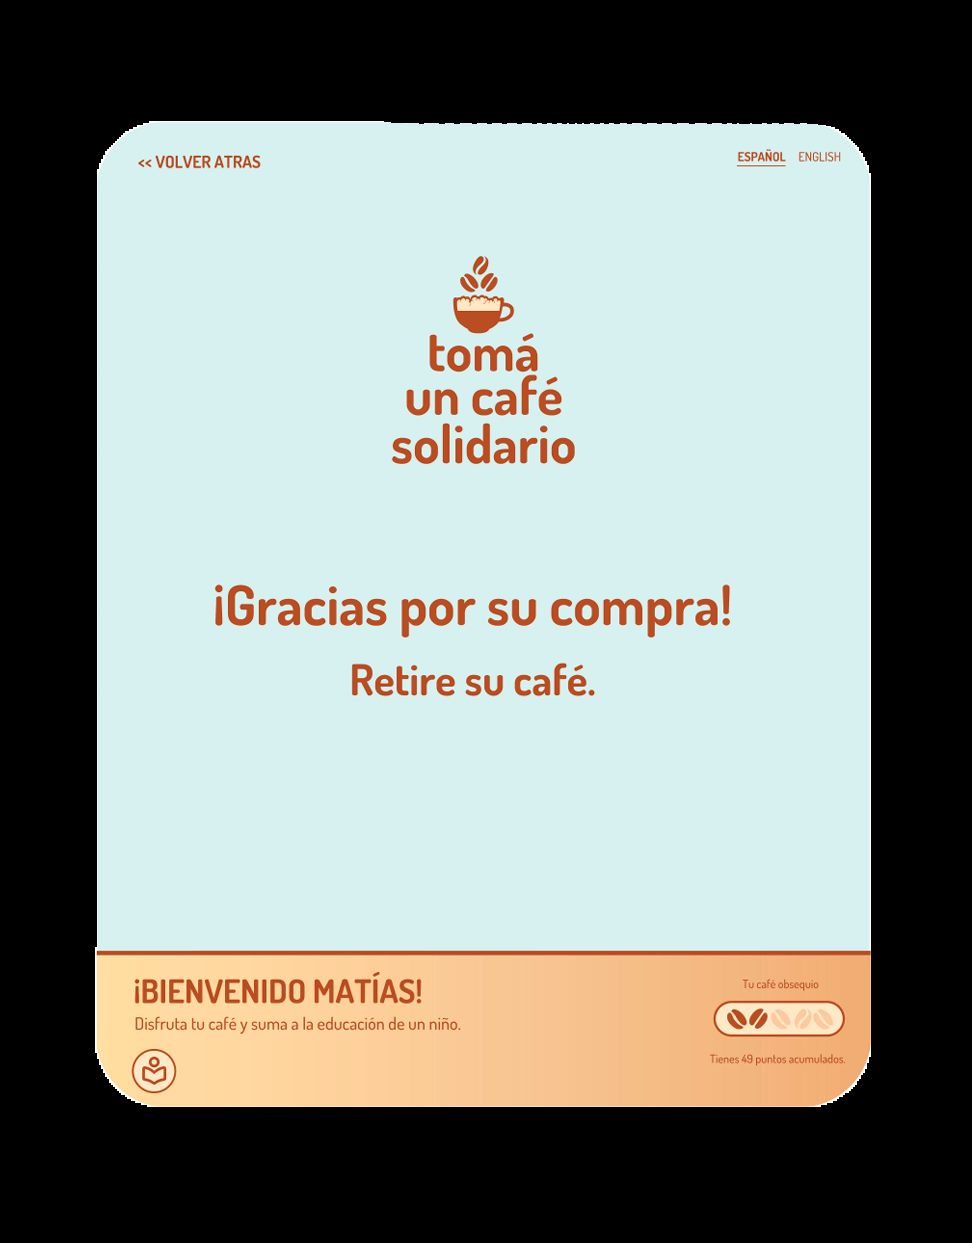
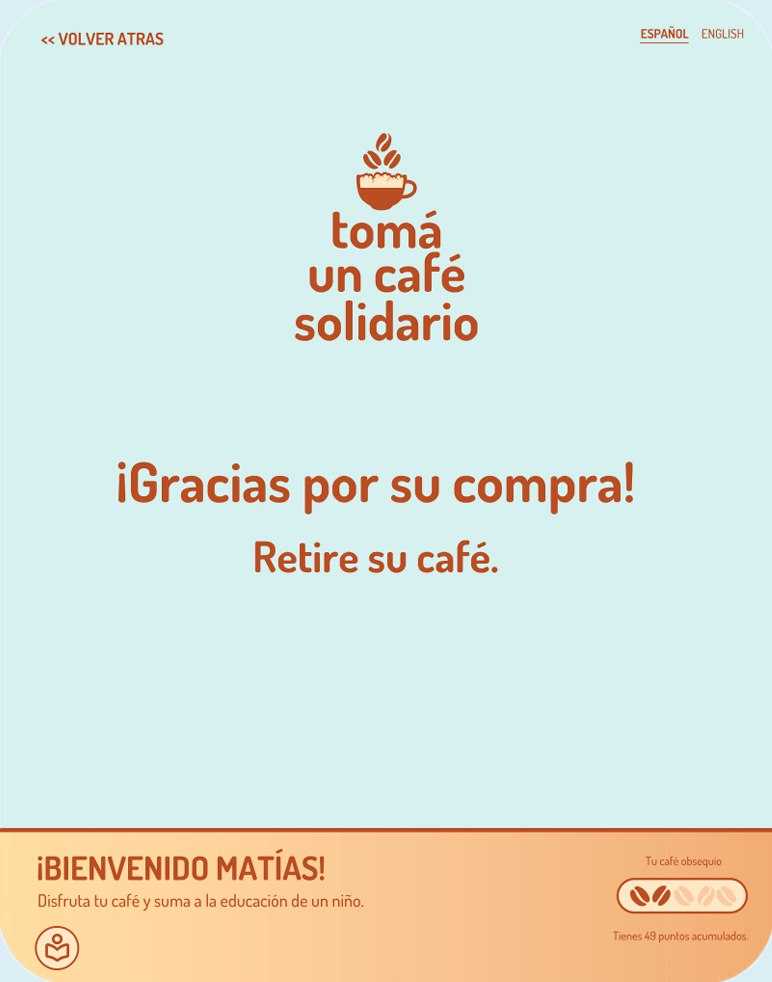
Add hero photo-to-illustration morph and clean Totem frames.
Interactive drag/tap reveal on the hero portrait, swap in the latest illustration assets, and crop black borders from Totem Cafe screens.

diff --git a/css/styles.css b/css/styles.css
@@ -312,6 +312,11 @@ section.hero {
   justify-self: end;
   box-shadow: 0 16px 40px rgba(0, 0, 0, 0.12);
   background: #EAE4D6;
+  position: relative;
+  touch-action: none;
+  cursor: ew-resize;
+  user-select: none;
+  -webkit-user-select: none;
 }
 
 .hero-image img {
@@ -320,6 +325,134 @@ section.hero {
   object-fit: cover;
   object-position: center top;
   display: block;
+  pointer-events: none;
+}
+
+.hero-morph-draw {
+  position: absolute;
+  inset: 0;
+  width: 100%;
+  height: 100%;
+  object-fit: cover;
+  object-position: center top;
+}
+
+.hero-morph-photo {
+  position: absolute;
+  inset: 0;
+  width: 100%;
+  height: 100%;
+  overflow: hidden;
+  clip-path: inset(0 0 0 0);
+  will-change: clip-path;
+}
+
+.hero-morph-photo img {
+  position: absolute;
+  inset: 0;
+  width: 100%;
+  height: 100%;
+  max-width: none;
+  object-fit: cover;
+  object-position: center top;
+}
+
+.hero-morph-handle {
+  position: absolute;
+  top: 0;
+  bottom: 0;
+  left: 100%;
+  width: 0;
+  z-index: 3;
+  pointer-events: none;
+}
+
+.hero-morph-handle-line {
+  position: absolute;
+  top: 0;
+  bottom: 0;
+  left: 0;
+  width: 2px;
+  transform: translateX(-50%);
+  background: rgba(255, 250, 240, 0.92);
+  box-shadow: 0 0 0 1px rgba(28, 28, 28, 0.12);
+}
+
+.hero-morph-handle-knob {
+  position: absolute;
+  top: 50%;
+  left: 0;
+  width: 42px;
+  height: 42px;
+  transform: translate(-50%, -50%);
+  border-radius: 50%;
+  background: rgba(255, 250, 240, 0.95);
+  border: 1px solid rgba(28, 28, 28, 0.12);
+  box-shadow: 0 8px 20px rgba(0, 0, 0, 0.18);
+}
+
+.hero-morph-handle-knob::before,
+.hero-morph-handle-knob::after {
+  content: '';
+  position: absolute;
+  top: 50%;
+  width: 0;
+  height: 0;
+  border-style: solid;
+  transform: translateY(-50%);
+}
+
+.hero-morph-handle-knob::before {
+  left: 10px;
+  border-width: 5px 6px 5px 0;
+  border-color: transparent #1C1C1C transparent transparent;
+}
+
+.hero-morph-handle-knob::after {
+  right: 10px;
+  border-width: 5px 0 5px 6px;
+  border-color: transparent transparent transparent #1C1C1C;
+}
+
+.hero-morph-hint {
+  position: absolute;
+  left: 50%;
+  bottom: 16px;
+  transform: translateX(-50%);
+  z-index: 4;
+  padding: 8px 12px;
+  border-radius: 999px;
+  background: rgba(28, 28, 28, 0.62);
+  color: #FFFAF0;
+  font-size: 12px;
+  font-weight: 700;
+  letter-spacing: 0.04em;
+  text-transform: uppercase;
+  white-space: nowrap;
+  pointer-events: none;
+  transition: opacity 0.35s ease, transform 0.35s ease;
+}
+
+.hero-morph.is-drawn .hero-morph-hint,
+.hero-morph.is-dragging .hero-morph-hint {
+  opacity: 0;
+  transform: translateX(-50%) translateY(6px);
+}
+
+.hero-morph.is-animating .hero-morph-photo {
+  transition: clip-path 0.55s cubic-bezier(0.22, 1, 0.36, 1);
+}
+
+.hero-morph.is-animating .hero-morph-handle {
+  transition: left 0.55s cubic-bezier(0.22, 1, 0.36, 1);
+}
+
+@media (prefers-reduced-motion: reduce) {
+  .hero-morph.is-animating .hero-morph-photo,
+  .hero-morph.is-animating .hero-morph-handle,
+  .hero-morph-hint {
+    transition: none;
+  }
 }
 
 .hero .cta {
@@ -1580,15 +1713,20 @@ body[data-proyecto-id="3"] .main-image {
 }
 
 body[data-proyecto-id="3"] .main-image {
-  aspect-ratio: 972 / 1243;
+  aspect-ratio: 882 / 1124;
   background: #dceef5;
 }
 
-body[data-proyecto-id="2"] .main-image img,
-body[data-proyecto-id="3"] .main-image img {
+body[data-proyecto-id="2"] .main-image img {
   object-fit: contain !important;
   object-position: center center;
   background: inherit;
+}
+
+body[data-proyecto-id="3"] .main-image img {
+  object-fit: cover !important;
+  object-position: center center;
+  background: #dceef5;
 }
 
 body[data-proyecto-id="2"] .thumbnails,

diff --git a/js/nav.js b/js/nav.js
@@ -29,6 +29,114 @@
 })();
 
 (function () {
+  var root = document.querySelector('[data-hero-morph]');
+  if (!root) return;
+
+  var photo = root.querySelector('[data-hero-photo]');
+  var handle = root.querySelector('[data-hero-handle]');
+  if (!photo || !handle) return;
+
+  var reveal = 0; // 0 = solo foto, 1 = solo dibujo
+  var dragging = false;
+  var moved = false;
+  var startX = 0;
+  var startReveal = 0;
+  var reduceMotion = window.matchMedia('(prefers-reduced-motion: reduce)').matches;
+
+  function setReveal(value, animate) {
+    reveal = Math.max(0, Math.min(1, value));
+    var pct = (reveal * 100).toFixed(2);
+    // Recorta la foto desde la derecha → deja ver el dibujo debajo
+    photo.style.clipPath = 'inset(0 ' + pct + '% 0 0)';
+    handle.style.left = (100 - reveal * 100).toFixed(2) + '%';
+    root.classList.toggle('is-drawn', reveal > 0.92);
+    root.classList.toggle('is-animating', !!animate && !reduceMotion);
+    root.setAttribute(
+      'aria-label',
+      reveal > 0.5
+        ? 'Versión ilustrada de Rodrigo Caimi. Arrastrá o tocá para volver a la foto.'
+        : 'Foto de Rodrigo Caimi. Arrastrá o tocá para ver la versión ilustrada.'
+    );
+  }
+
+  function animateTo(target) {
+    setReveal(target, true);
+    if (reduceMotion) return;
+    window.setTimeout(function () {
+      root.classList.remove('is-animating');
+    }, 600);
+  }
+
+  function pointerX(event) {
+    if (event.touches && event.touches.length) return event.touches[0].clientX;
+    if (event.changedTouches && event.changedTouches.length) return event.changedTouches[0].clientX;
+    return event.clientX;
+  }
+
+  function onStart(event) {
+    if (event.type === 'mousedown' && event.button !== 0) return;
+    dragging = true;
+    moved = false;
+    startX = pointerX(event);
+    startReveal = reveal;
+    root.classList.add('is-dragging');
+    root.classList.remove('is-animating');
+  }
+
+  function onMove(event) {
+    if (!dragging) return;
+    var rect = root.getBoundingClientRect();
+    if (!rect.width) return;
+    var dx = pointerX(event) - startX;
+    if (Math.abs(dx) > 4) moved = true;
+    // Arrastrar a la izquierda revela el dibujo
+    var next = startReveal + (-dx / rect.width);
+    setReveal(next, false);
+    if (event.cancelable && moved) event.preventDefault();
+  }
+
+  function onEnd() {
+    if (!dragging) return;
+    dragging = false;
+    root.classList.remove('is-dragging');
+
+    if (!moved) {
+      // Tap: cambia automáticamente al otro estado
+      animateTo(reveal < 0.5 ? 1 : 0);
+      return;
+    }
+
+    // Drag: completa solo hacia el dibujo o vuelve a la foto
+    if (reveal >= 0.22) animateTo(1);
+    else animateTo(0);
+  }
+
+  root.addEventListener('mousedown', onStart);
+  window.addEventListener('mousemove', onMove);
+  window.addEventListener('mouseup', onEnd);
+
+  root.addEventListener('touchstart', onStart, { passive: true });
+  root.addEventListener('touchmove', onMove, { passive: false });
+  root.addEventListener('touchend', onEnd);
+  root.addEventListener('touchcancel', onEnd);
+
+  root.addEventListener('keydown', function (event) {
+    if (event.key === 'Enter' || event.key === ' ') {
+      event.preventDefault();
+      animateTo(reveal < 0.5 ? 1 : 0);
+    } else if (event.key === 'ArrowLeft') {
+      event.preventDefault();
+      animateTo(1);
+    } else if (event.key === 'ArrowRight') {
+      event.preventDefault();
+      animateTo(0);
+    }
+  });
+
+  setReveal(0, false);
+})();
+
+(function () {
   var steps = document.querySelectorAll('.step');
   if (!steps.length) return;
 

diff --git a/index.html b/index.html
@@ -17,9 +17,11 @@
   <link rel="preconnect" href="https://fonts.gstatic.com" crossorigin>
   <link rel="preload" as="image" href="./IMAGENES/hero-rodrigo-20260806-mobile.jpg" media="(max-width: 920px)" fetchpriority="high">
   <link rel="preload" as="image" href="./IMAGENES/hero-rodrigo-20260806.jpg" media="(min-width: 921px)" fetchpriority="high">
+  <link rel="preload" as="image" href="./IMAGENES/cara-dibujo-mobile.jpg?v=20260806g" media="(max-width: 920px)">
+  <link rel="preload" as="image" href="./IMAGENES/cara-dibujo.jpg?v=20260806g" media="(min-width: 921px)">
   <link rel="preload" href="https://fonts.googleapis.com/css2?family=DM+Sans:wght@400;700&display=swap" as="style" onload="this.onload=null;this.rel='stylesheet'">
   <noscript><link href="https://fonts.googleapis.com/css2?family=DM+Sans:wght@400;700&display=swap" rel="stylesheet"></noscript>
-  <link rel="stylesheet" href="./css/styles.css?v=20260806b">
+  <link rel="stylesheet" href="./css/styles.css?v=20260806g">
   <style>
     html,body{margin:0;background:#FFFAF0;color:#1C1C1C;font-family:'DM Sans',system-ui,sans-serif}
     .hero-image{background:#EAE4D6}
@@ -79,17 +81,34 @@
           <a class="btn btn-secondary" href="./DOCUMENTOS/CV%20RODRIGO.pdf" download="CV-RODRIGO.pdf">Descarga mi CV</a>
         </div>
       </div>
-      <div class="hero-image">
+      <div class="hero-image hero-morph" data-hero-morph tabindex="0" role="img" aria-label="Foto de Rodrigo Caimi. Arrastrá o tocá para ver la versión ilustrada.">
         <img
-          src="./IMAGENES/hero-rodrigo-20260806-mobile.jpg"
-          srcset="./IMAGENES/hero-rodrigo-20260806-mobile.jpg 480w, ./IMAGENES/hero-rodrigo-20260806.jpg 720w"
+          class="hero-morph-draw"
+          src="./IMAGENES/cara-dibujo-mobile.jpg?v=20260806g"
+          srcset="./IMAGENES/cara-dibujo-mobile.jpg?v=20260806g 480w, ./IMAGENES/cara-dibujo.jpg?v=20260806g 720w"
           sizes="(max-width: 920px) 68vw, min(560px, 40vw)"
-          alt="Rodrigo Caimi"
+          alt="Rodrigo Caimi ilustrado"
           width="480"
           height="640"
-          fetchpriority="high"
           decoding="async"
         />
+        <div class="hero-morph-photo" data-hero-photo>
+          <img
+            src="./IMAGENES/hero-rodrigo-20260806-mobile.jpg"
+            srcset="./IMAGENES/hero-rodrigo-20260806-mobile.jpg 480w, ./IMAGENES/hero-rodrigo-20260806.jpg 720w"
+            sizes="(max-width: 920px) 68vw, min(560px, 40vw)"
+            alt="Rodrigo Caimi"
+            width="480"
+            height="640"
+            fetchpriority="high"
+            decoding="async"
+          />
+        </div>
+        <div class="hero-morph-handle" data-hero-handle aria-hidden="true">
+          <span class="hero-morph-handle-line"></span>
+          <span class="hero-morph-handle-knob"></span>
+        </div>
+        <span class="hero-morph-hint">Arrastrá o tocá</span>
       </div>
     </section>
 
@@ -206,10 +225,10 @@
       <div class="spacer"></div>
     </div>
   </footer>
-  <script src="./js/nav.js?v=20260806b" defer></script>
-  <script src="./js/proyectos.js?v=20260806b" defer></script>
-  <script src="./js/trabajos.js?v=20260806b" defer></script>
-  <script src="./js/contacto.js?v=20260806b" defer></script>
+  <script src="./js/nav.js?v=20260806g" defer></script>
+  <script src="./js/proyectos.js?v=20260806g" defer></script>
+  <script src="./js/trabajos.js?v=20260806g" defer></script>
+  <script src="./js/contacto.js?v=20260806g" defer></script>
   <script>
     window.addEventListener('load', function () {
       setTimeout(function () {
